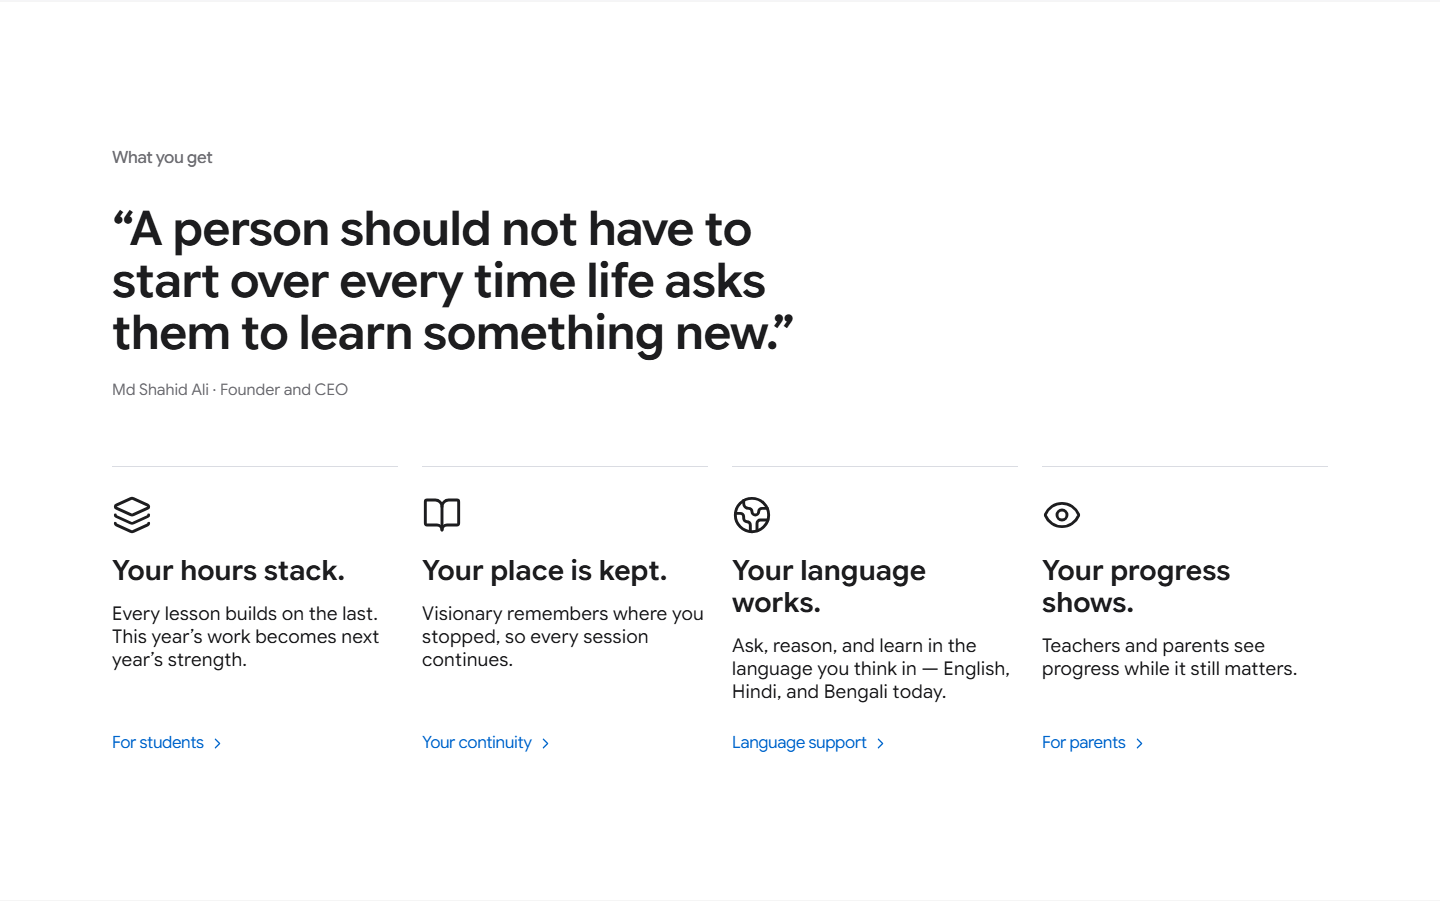
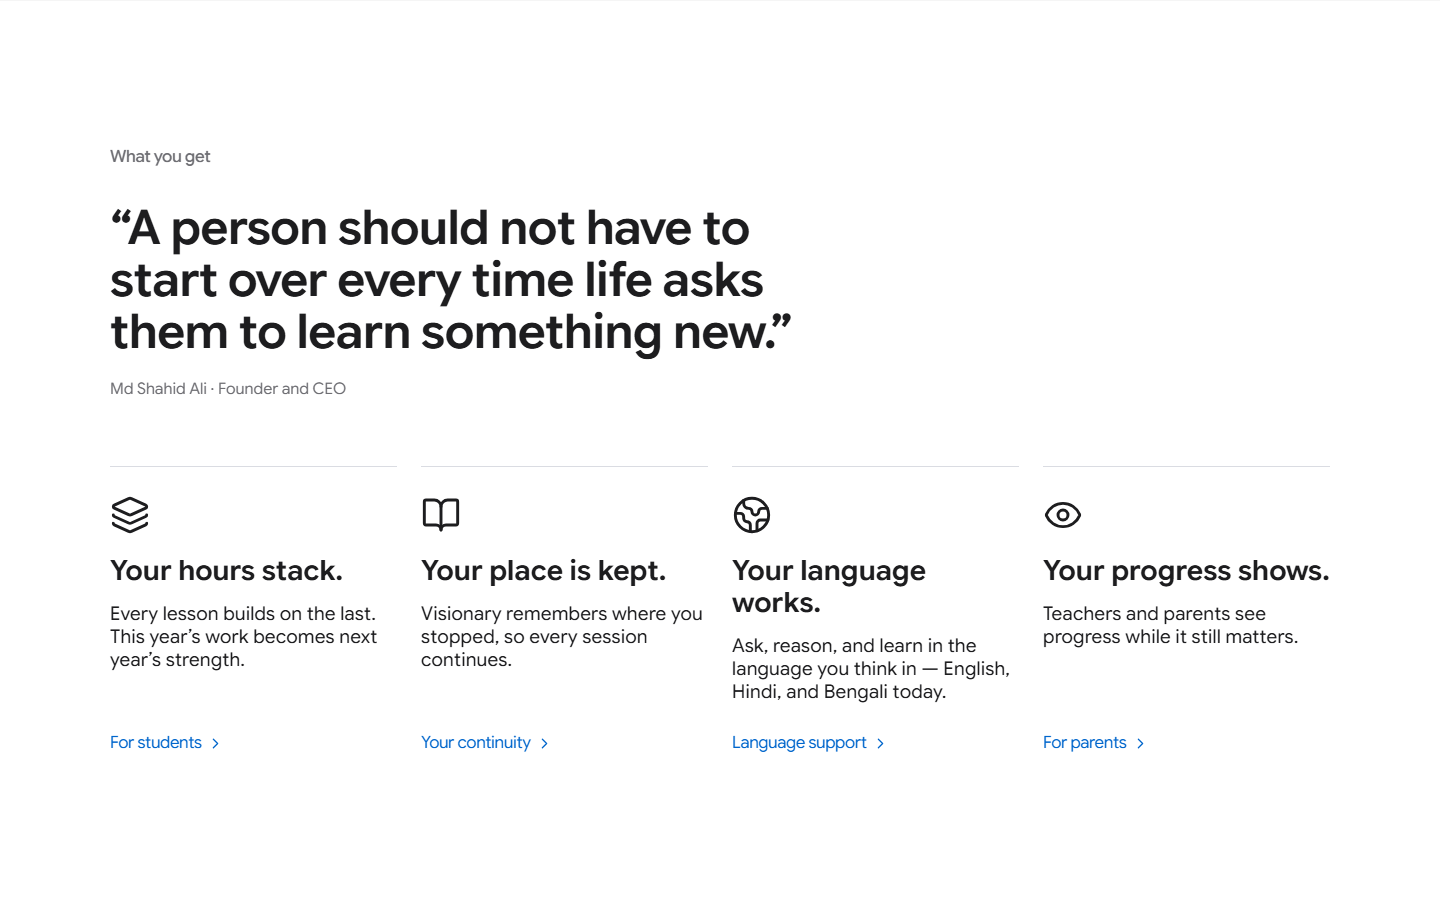
FHE-01 (V10): the old container system returns — each chapter wears its accepted margin
Founder directive: the old landing's left-position margins were the
approved ones — restore them per chapter, not a flattened spine.
Recovered from the accepted base (be771101) and restored:

- Problem + trust: the 980px editorial spine (public-editorial-frame,
  left 230 at 1440); the trust columns return to the old panel's 2x2
  grid shape inside it
- Return: its own wide frame (max-w-1400 + frame-x, left 110)
- Explore: the old 1265+80 header gutter (left 168), the track's
  scroll-padding at the same inset, and the Duo slide sized to the
  remaining width (calc(100vw-315px), max 1150) so the next card keeps
  a 124px live peek past the right edge

Verified: problem 230 / explore 168 / return 110 / trust 230 — the
accepted base's own positions (getBoundingClientRect evidence); the
peek live; quality gate PASS; 871/871 tests after scope refresh; lint
clean.

diff --git a/visionary-app/frontend/src/components/landing/persona/premium/PremiumExploreSection.jsx b/visionary-app/frontend/src/components/landing/persona/premium/PremiumExploreSection.jsx
@@ -30,7 +30,7 @@ const PremiumExploreCard = React.memo(function PremiumExploreCard({ category, im
       to={`/${category.slug}`}
       data-card
       aria-label={`Learn more about ${category.chip}`}
-      className="stagger-child group relative block w-[92vw] max-w-[1300px] shrink-0 snap-start overflow-hidden rounded-[18px] bg-white transition-transform duration-300 ease-apple hover:-translate-y-1 sm:rounded-[22px] lg:rounded-[28px]"
+      className="stagger-child group relative block w-[82vw] sm:w-[88vw] lg:w-[calc(100vw-315px)] lg:max-w-[1150px] shrink-0 snap-start overflow-hidden rounded-[18px] bg-white transition-transform duration-300 ease-apple hover:-translate-y-1 sm:rounded-[22px] lg:rounded-[28px]"
     >
       <div className="media-settle relative aspect-[4/5] overflow-hidden bg-white sm:aspect-[4/3] lg:aspect-[15/8]">
         <LazyImage
@@ -111,7 +111,7 @@ function PremiumExploreSection({ heading, categories, images, eyebrow, sub, head
     <section ref={ref} data-section="13-explore" className="relative isolate bg-[#f5f5f7] py-16 lg:py-24 [overflow-x:clip] rounded-t-[32px]">
       <ScrollReveal>
         <RevealItem idx={0}>
-          <div className="mx-auto w-full max-w-[1264px] px-6">
+          <div className="mx-auto w-full max-w-[1265px] px-6 lg:px-[80px]">
             {eyebrow && (
               <p className="text-[17px] font-medium" style={{ color: color.slate }}>
                 {eyebrow}
@@ -153,7 +153,7 @@ function PremiumExploreSection({ heading, categories, images, eyebrow, sub, head
               onPointerCancel={onTrackPointerEnd}
               onClickCapture={onTrackClickCapture}
               onDragStart={(e) => e.preventDefault()}
-              className="flex cursor-grab snap-x snap-mandatory gap-5 overflow-x-auto pb-2 pl-6 pr-6 select-none [scrollbar-width:none] active:cursor-grabbing [&::-webkit-scrollbar]:hidden lg:gap-6 lg:scroll-pl-[max(24px,calc((100vw-1264px)/2+24px))] lg:pl-[max(24px,calc((100vw-1264px)/2+24px))]"
+              className="flex cursor-grab snap-x snap-mandatory gap-5 overflow-x-auto pb-2 pl-6 pr-6 select-none [scrollbar-width:none] active:cursor-grabbing [&::-webkit-scrollbar]:hidden lg:gap-6 lg:scroll-pl-[max(24px,calc((100vw-1265px)/2+80px))] lg:pl-[max(24px,calc((100vw-1265px)/2+80px))]"
             >
               {categories.map((c, index) => (
                 <PremiumExploreCard key={c.slug} category={c} image={images[index]} />

diff --git a/visionary-app/frontend/src/pages/Landing.jsx b/visionary-app/frontend/src/pages/Landing.jsx
@@ -232,7 +232,7 @@ function LandingProblemSection() {
     <section ref={ref} data-section="02-problem" className="relative z-10 overflow-hidden bg-[#f5f5f7]" style={{ fontFamily: fontStack }}>
       <Reveal visible={visible}>
         <p className="sr-only">Stories from a student and a professional about the moment understanding breaks down.</p>
-        <div className="mx-auto w-full max-w-[1264px] px-6">
+        <div className="public-editorial-frame mx-auto">
           <p className="text-[17px] font-medium" style={{ color: BRAND.graphite }}>Why Visionary exists</p>
           <h2 key={`h-${index}`} data-type="section" className="hero-fade-up mt-[var(--gap-eyebrow-title-display)] text-balance font-semibold" style={{ color: BRAND.ink, maxWidth: "980px" }}>
             {slide.black} <span className="accent-gradient">{slide.blue}</span>.
@@ -244,7 +244,7 @@ function LandingProblemSection() {
           </p>
         </div>
         <figure className="m-0">
-          <div className="mx-auto w-full max-w-[1264px] px-6">
+          <div className="public-editorial-frame mx-auto">
             {/* the story card — one white object on the grey ground: the
                 subject bleeds on the card’s left field, the voice sits on the
                 right panel. The card is the chapter’s one story unit, so the
@@ -395,7 +395,7 @@ function LandingReturnSection() {
   return (
     <section ref={ref} data-section="04-return" className="relative isolate bg-white [overflow-x:clip]" style={{ fontFamily: fontStack }}>
       <Reveal visible={visible}>
-        <div className="mx-auto w-full max-w-[1264px] px-6">
+        <div className="mx-auto w-full max-w-[1400px] px-6 lg:px-[var(--frame-x)]">
           <p className="text-[17px] font-medium" style={{ color: BRAND.graphite }}>What you get</p>
           <figure className="m-0">
             <blockquote className="mt-[clamp(20px,2.6vw,32px)]">

diff --git a/visionary-app/frontend/src/components/landing/persona/premium/PremiumTrustSection.jsx b/visionary-app/frontend/src/components/landing/persona/premium/PremiumTrustSection.jsx
@@ -21,7 +21,7 @@ function PremiumTrustSection({ heading, sub, values }) {
   return (
     <section ref={ref} data-section="11-trust" className="public-values relative isolate bg-white py-24 lg:py-32 [overflow-x:clip] rounded-t-[32px]">
       <ScrollReveal>
-        <div className="mx-auto w-full max-w-[1264px] px-6">
+        <div className="public-editorial-frame mx-auto">
           <RevealItem idx={0}>
             <h2
               data-type="section"
@@ -44,7 +44,7 @@ function PremiumTrustSection({ heading, sub, values }) {
               Four values (the landing's trust doors) open a fourth column;
               the three-value pages keep their accepted three-up rhythm. */}
           <RevealItem idx={2} className="stagger-group">
-            <div className={`mt-14 grid grid-cols-1 lg:mt-20 ${values.length > 3 ? "lg:grid-cols-4" : "lg:grid-cols-3"}`}>
+            <div className={`mt-14 grid grid-cols-1 gap-x-10 gap-y-8 sm:grid-cols-2 lg:mt-20 lg:gap-x-14 ${values.length > 3 ? "lg:grid-cols-2" : "lg:grid-cols-3"}`}>
               {values.map((value, i) => (
                 <article
                   key={value.title}
